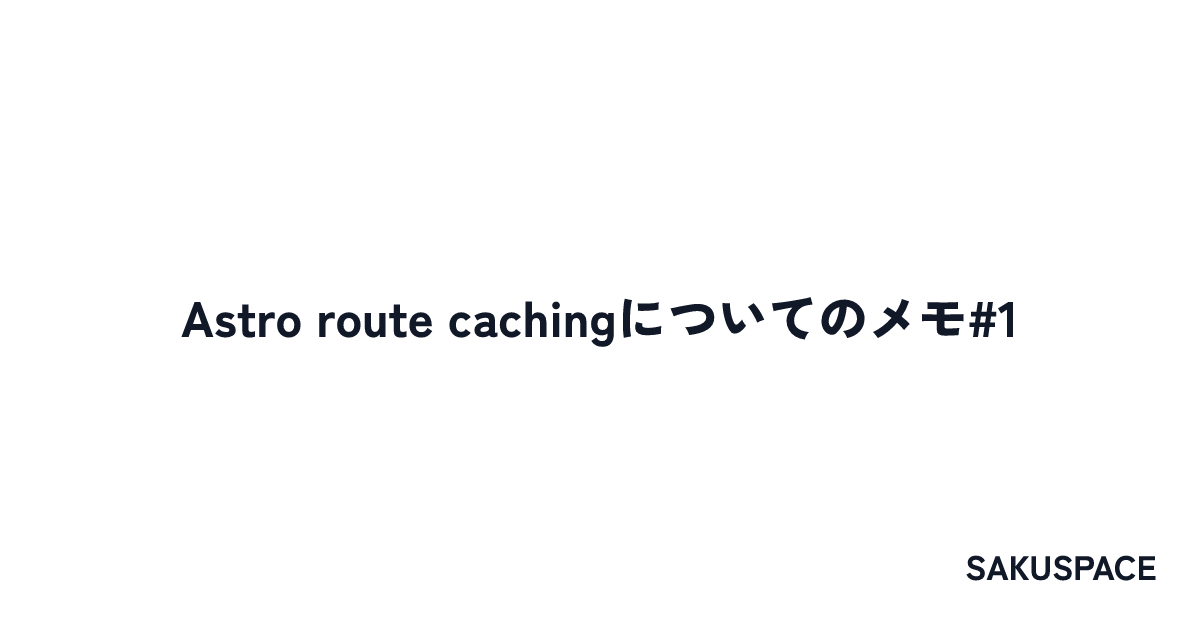
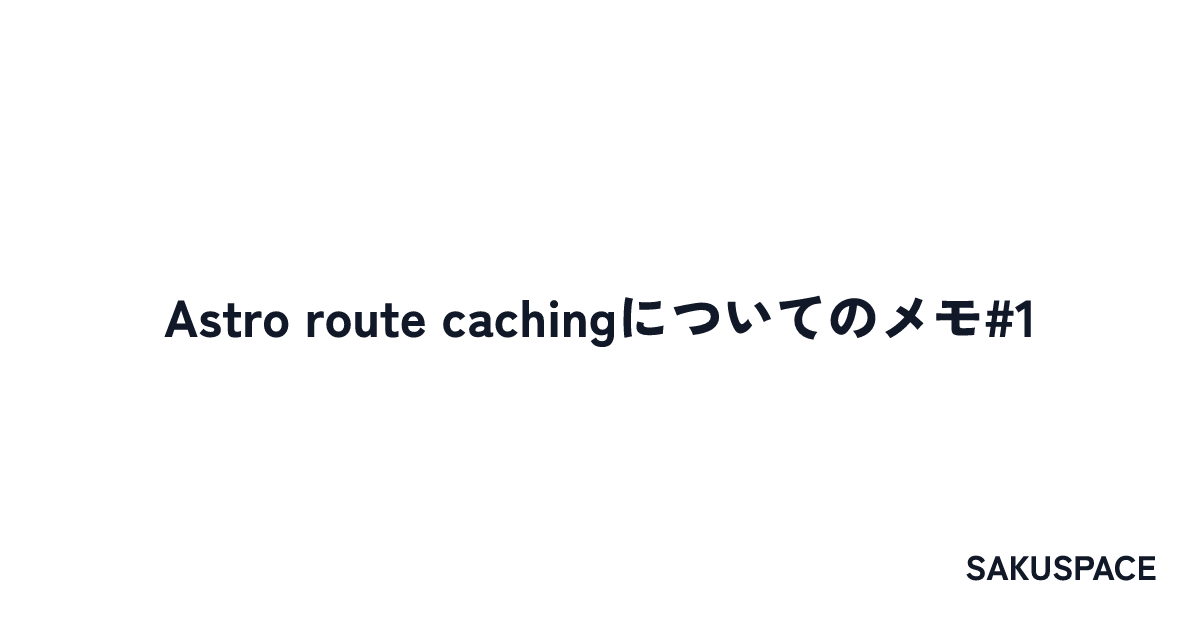
style: set blog OGP titles to 52px

Changed region(s): [[0.1233, 0.4524, 0.8633, 0.5429]]

diff --git a/scripts/lib/build-ogp-core.js b/scripts/lib/build-ogp-core.js
@@ -220,7 +220,7 @@ export function createOgpElement({ title, isBasicPage }, { parser = defaultParse
   };
 
   const titleStyle = {
-    fontSize: isBasicPage ? '58px' : '50px',
+    fontSize: isBasicPage ? '58px' : '52px',
     fontWeight: 900,
     lineHeight: 1.3,
     textAlign: isBasicPage ? 'center' : 'left',
